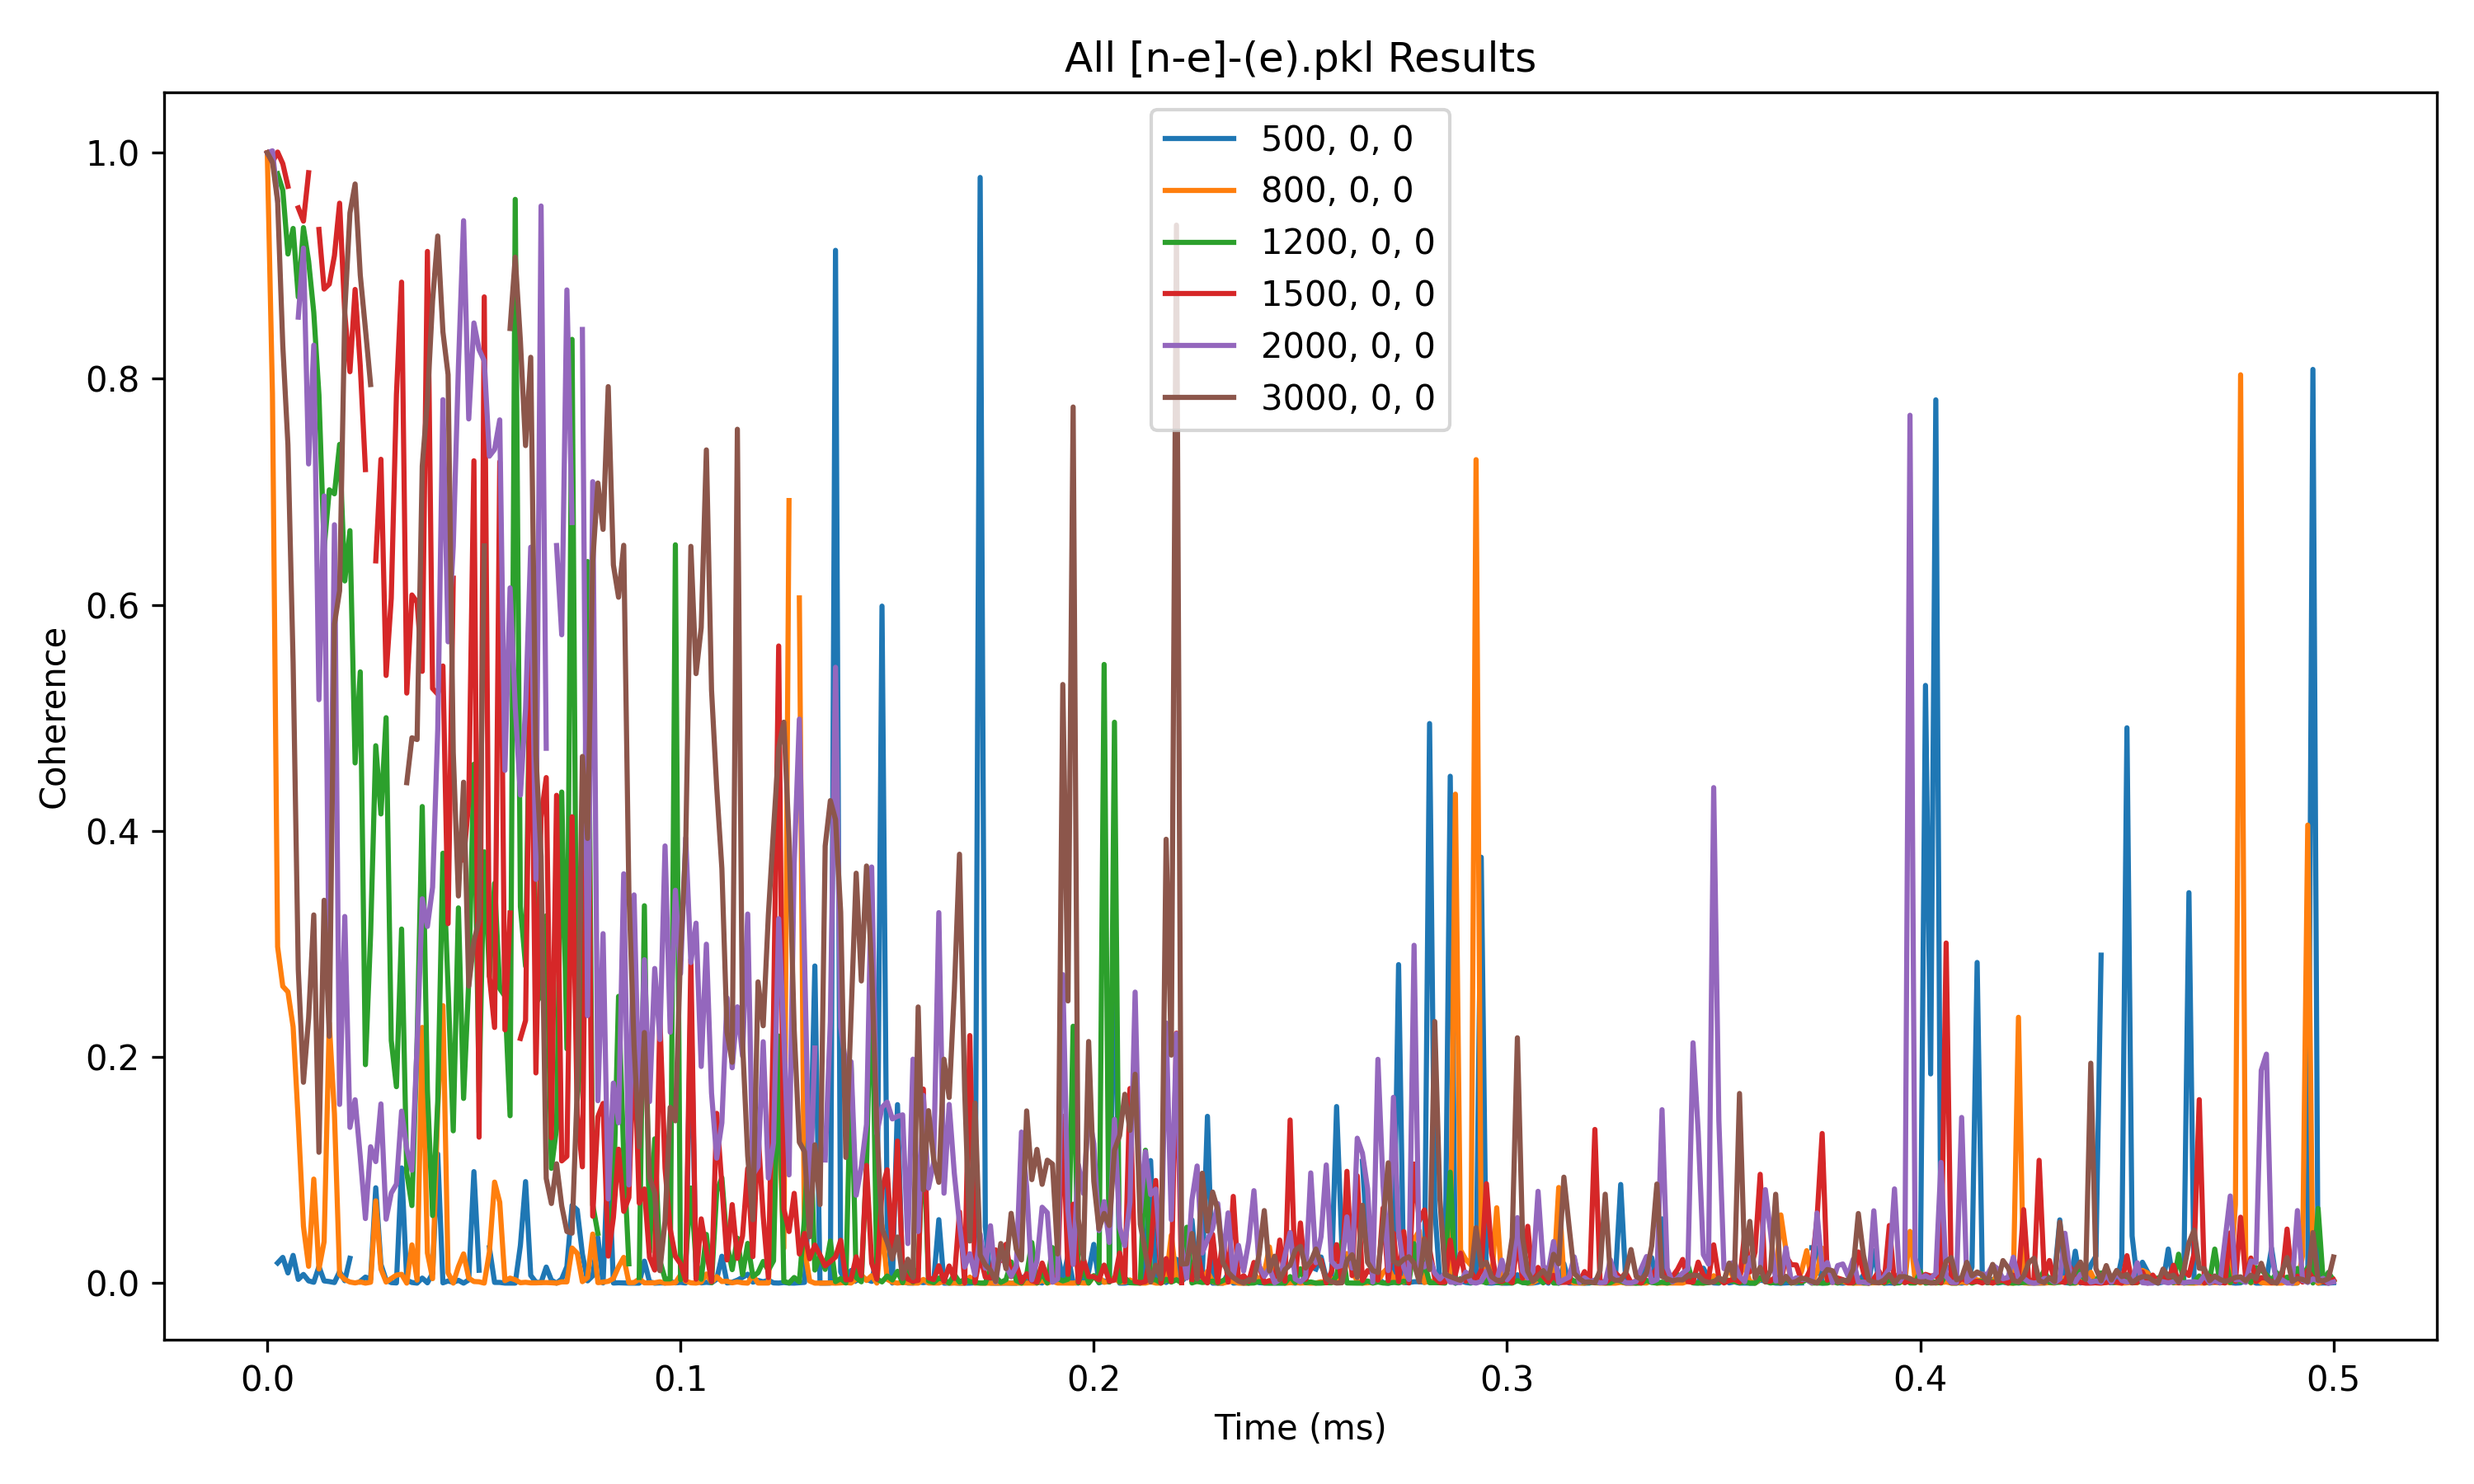
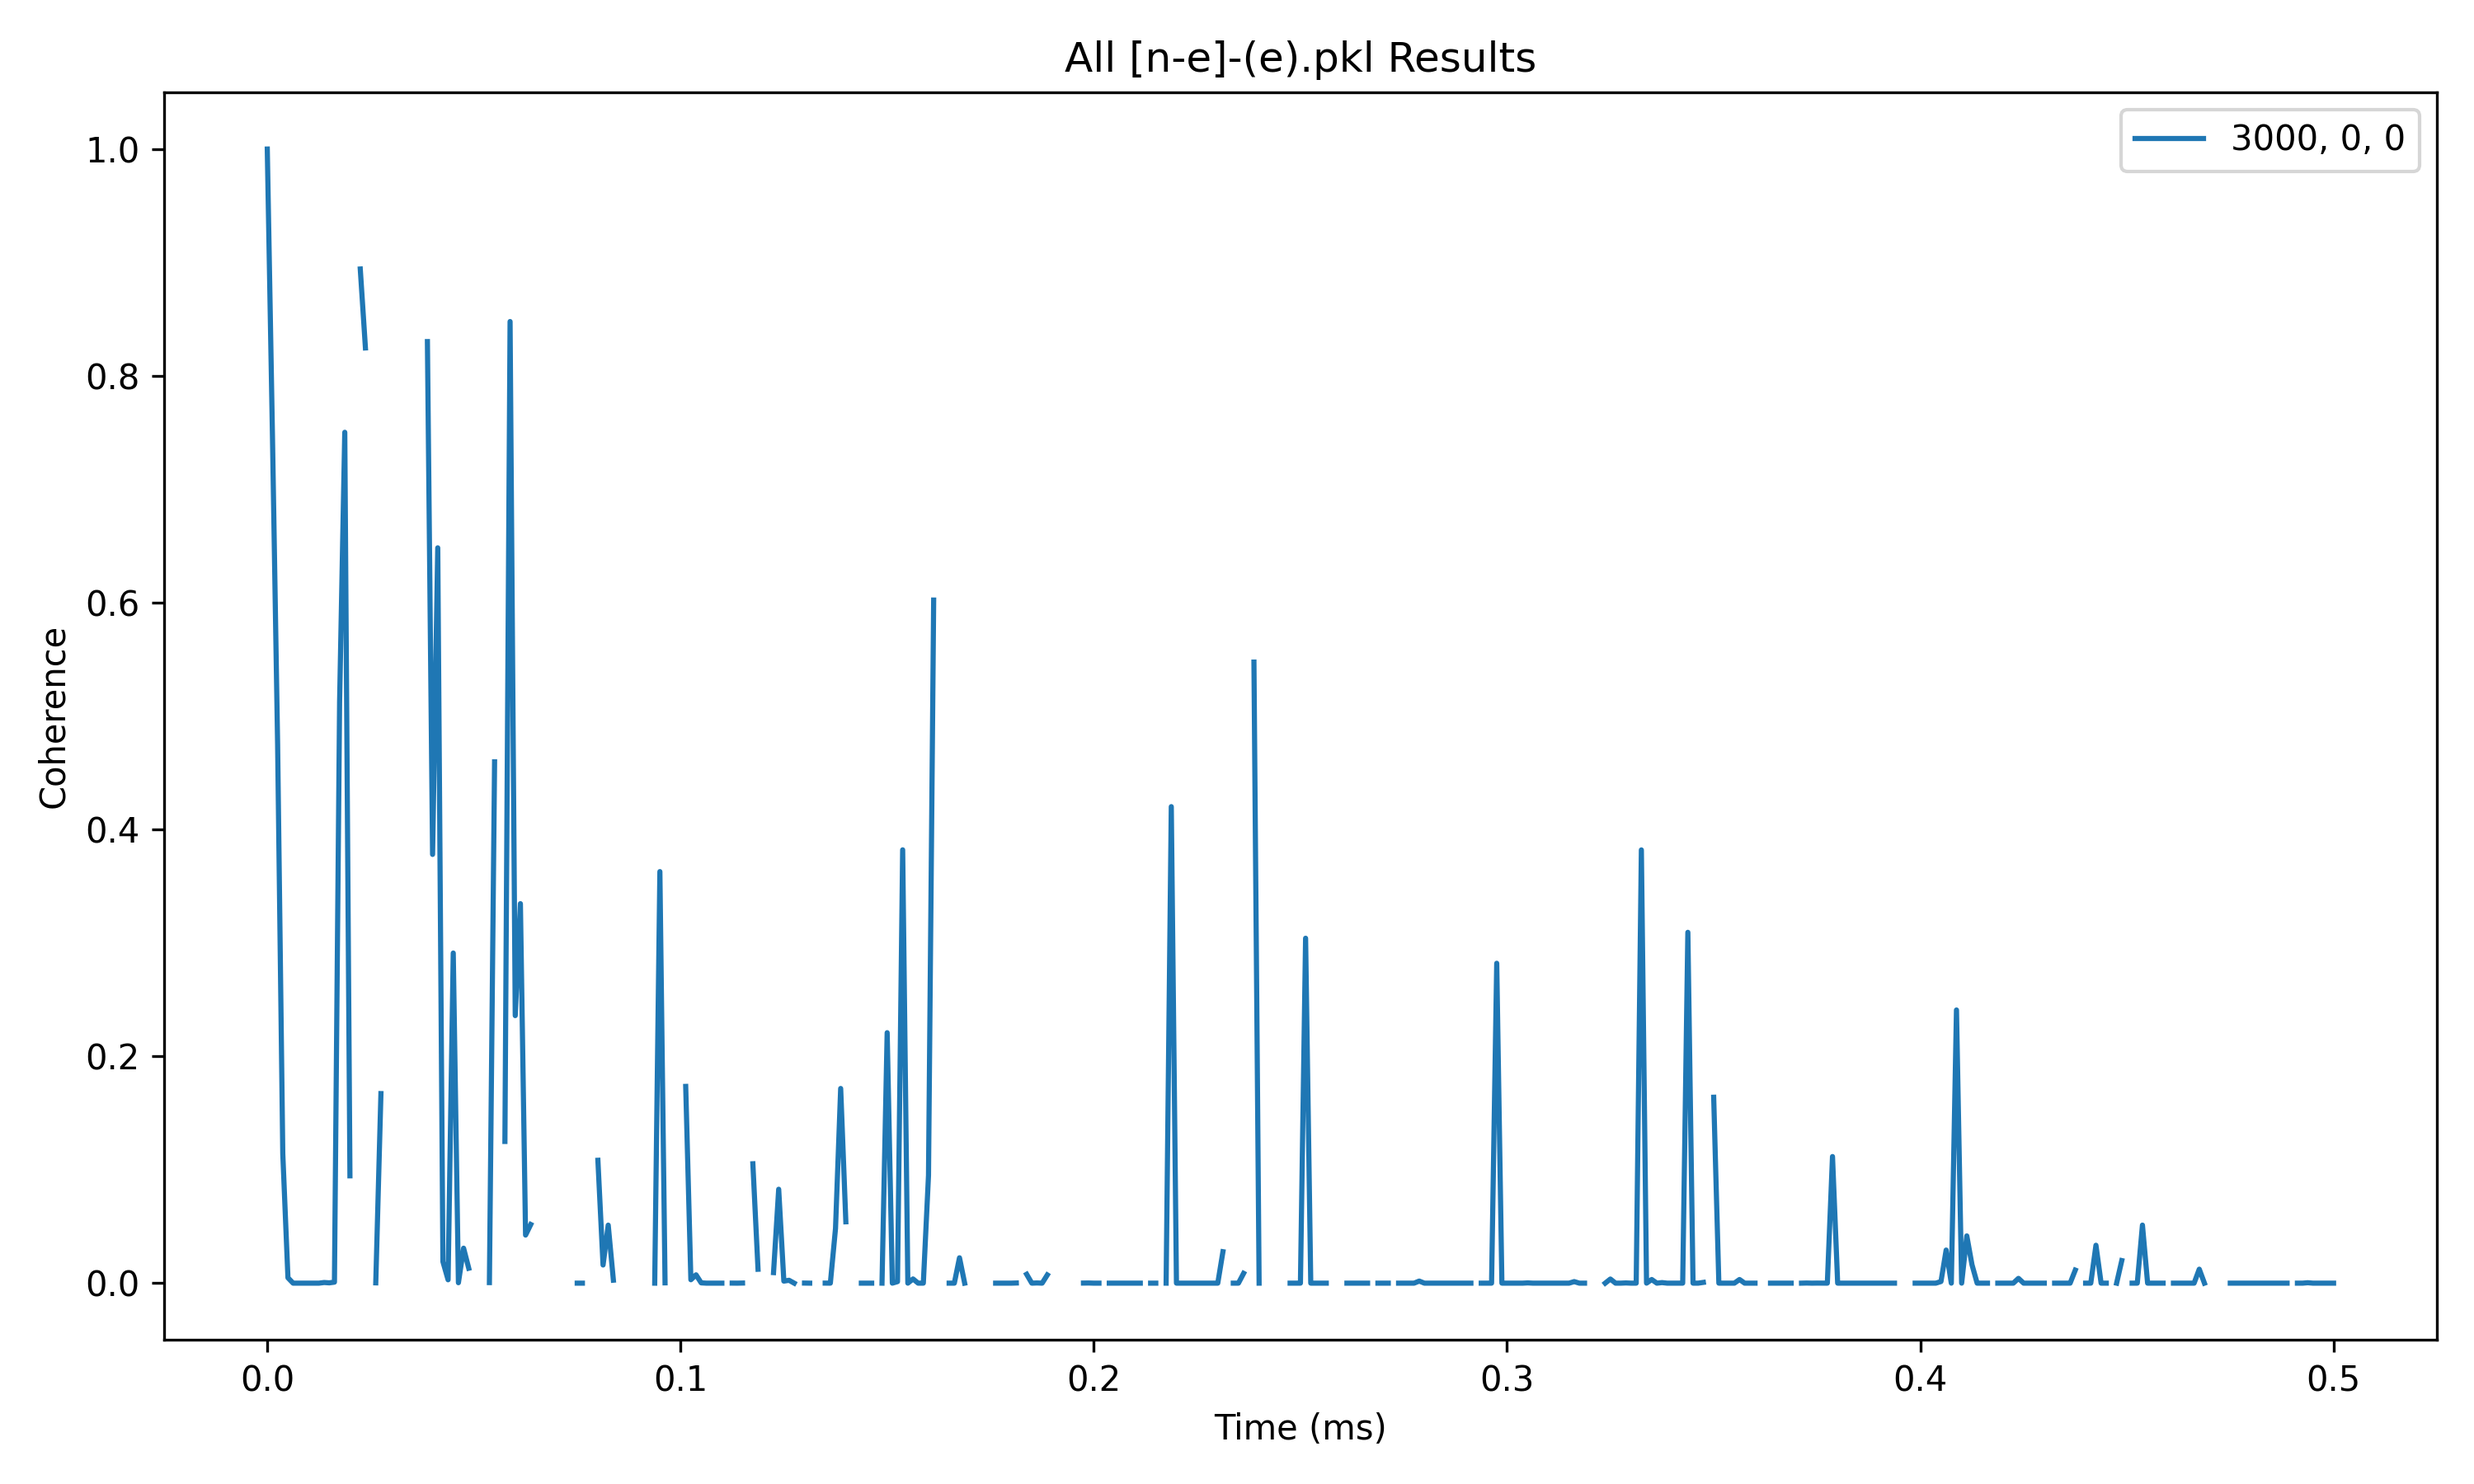
AB1: Disappointing [n-e]-(e) with order=3. Possibly unrealistic because there's no shielding going on? Since we have no magnetic spins?

diff --git a/VOTPP folder/VOTPP_[n-e]-(e).py b/VOTPP folder/VOTPP_[n-e]-(e).py
@@ -156,9 +156,12 @@ timespace_absolute = np.linspace(0, 0.5, 401)
 
 # pulse_central = pc.Pulse(axis='z', angle='2*pi/3', delay=None,)  # 120° pulse around x-axis applied to central spin
 pulse_bath = pc.Pulse(axis='z', angle='2*pi/3', delay=None, 
-                      bath_names='51V') # 120° pulse around x-axis applied to bath spins
-# pulse_bath2 = pc.Pulse(axis='z', angle='2*pi/3', delay=None, 
-#                       bath_names='51V') # 120° pulse around x-axis applied to bath spins
+                      bath_names=('1H', '2H',
+                                  '13C',
+                                  '14N', '15N',
+                                  '50V', '51V',
+                                  )) # 120° pulse around x-axis applied to bath spins
+
 
 # Define the sequence
 hahn_echo_sequence = pc.Sequence([
@@ -175,7 +178,7 @@ default_calc_parameters = {
     'timespace': timespace_absolute, # 7e-2
     'method': 'gcce',
     'pulses': hahn_echo_sequence,
-    'nbstates': 10, #!
+    'nbstates': 30, #!
     'quantity': 'coherence',
     'parallel': True,
     'parallel_states': True,
@@ -188,14 +191,14 @@ default_bath_parameters = {
 }
 
 default_simulator_parameters = { ########## These should be greater when simulating with HPC
-    'order': 2, #!
-    'r_bath': 50, #16,
-    'r_dipole': 50, #6,
+    'order': 3, #!
+    'r_bath': 80, #16,
+    'r_dipole': 75, #6,
     'magnetic_field': [3000, 0, 0], # Magnetic field in Gauss
 }
 
-# magnetic_field_list = [[3000,0,0]]
-magnetic_field_list = [[500, 0, 0,], [800, 0, 0,], [1200, 0, 0,], [1500, 0, 0,], [2000, 0, 0,], [3000, 0, 0,]]
+magnetic_field_list = [[3000,0,0]]
+# magnetic_field_list = [[500, 0, 0,], [800, 0, 0,], [1200, 0, 0,], [1500, 0, 0,], [2000, 0, 0,], [3000, 0, 0,]]
 
 #####################################################################
 # Set up runner and run the simulation
